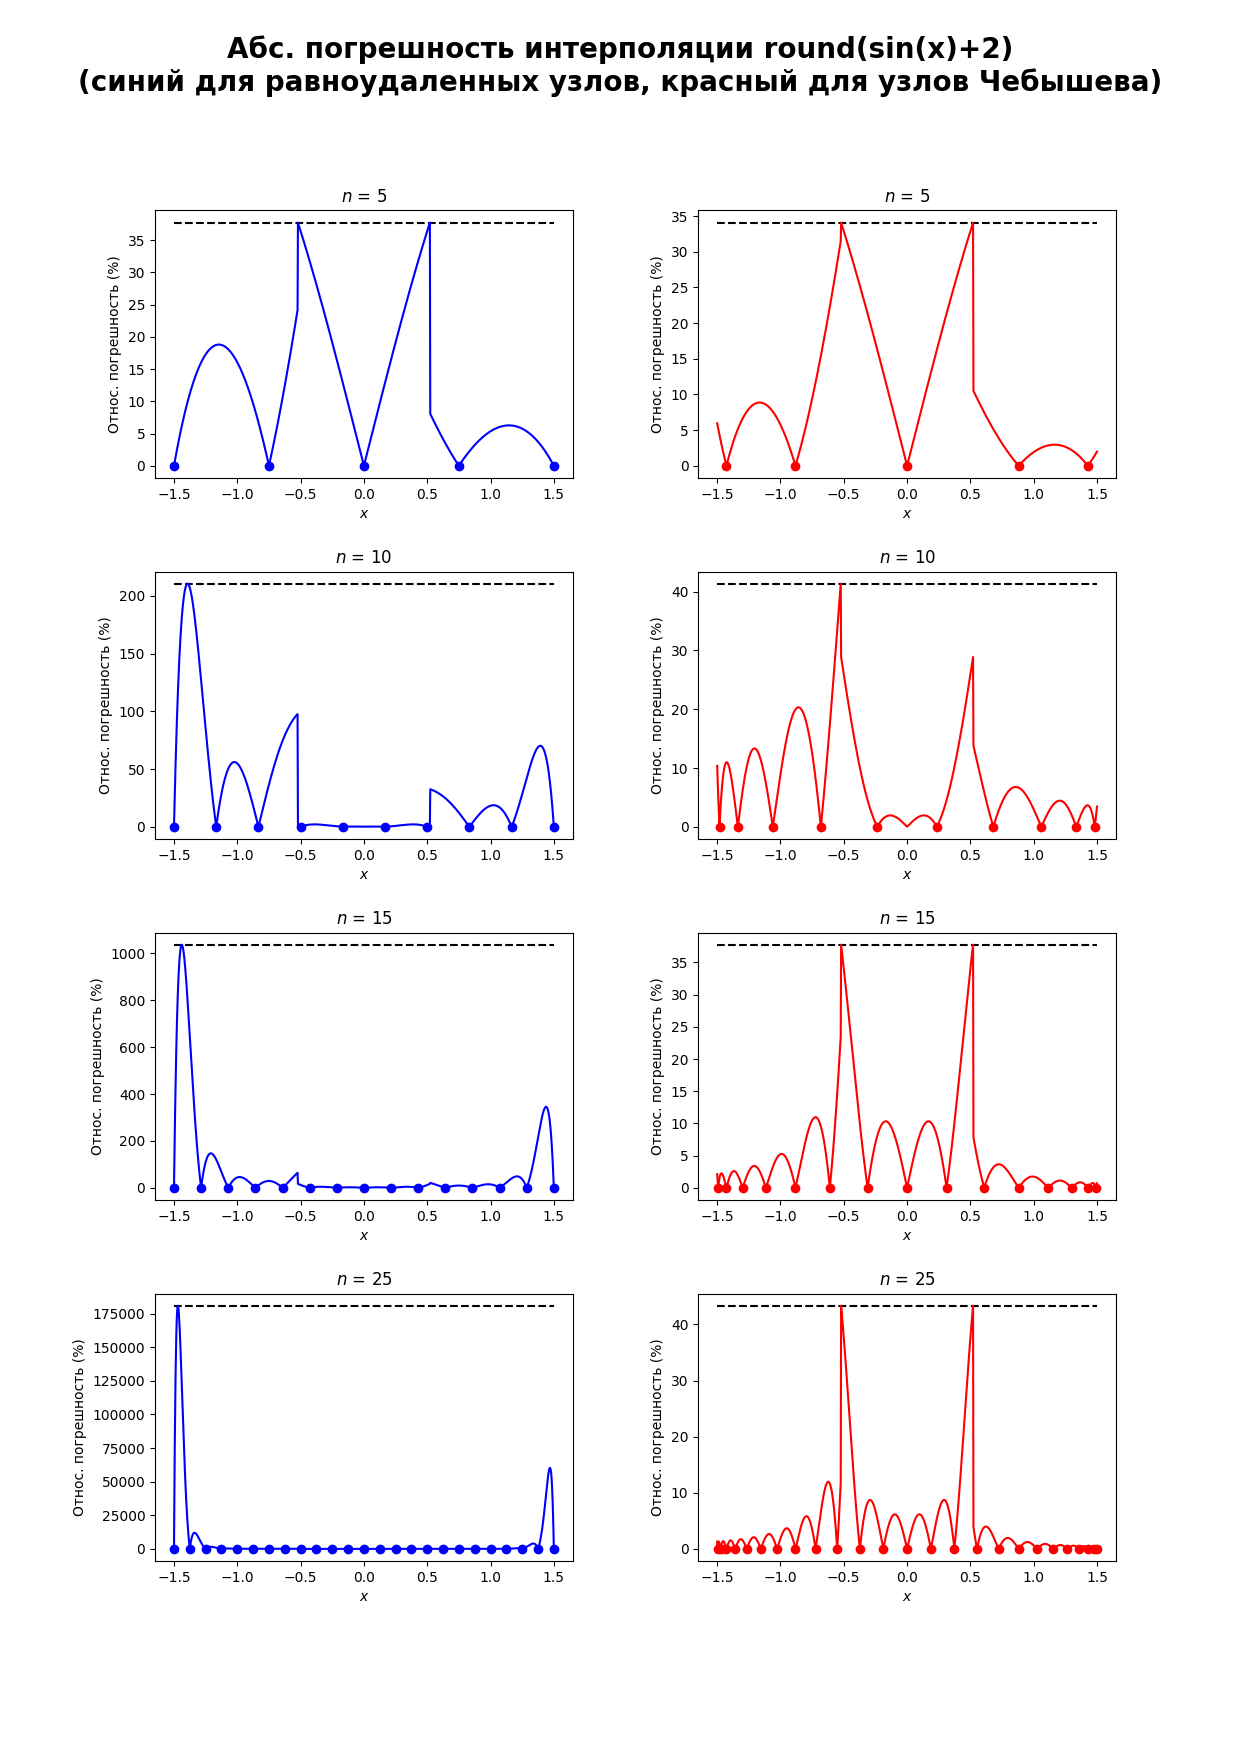
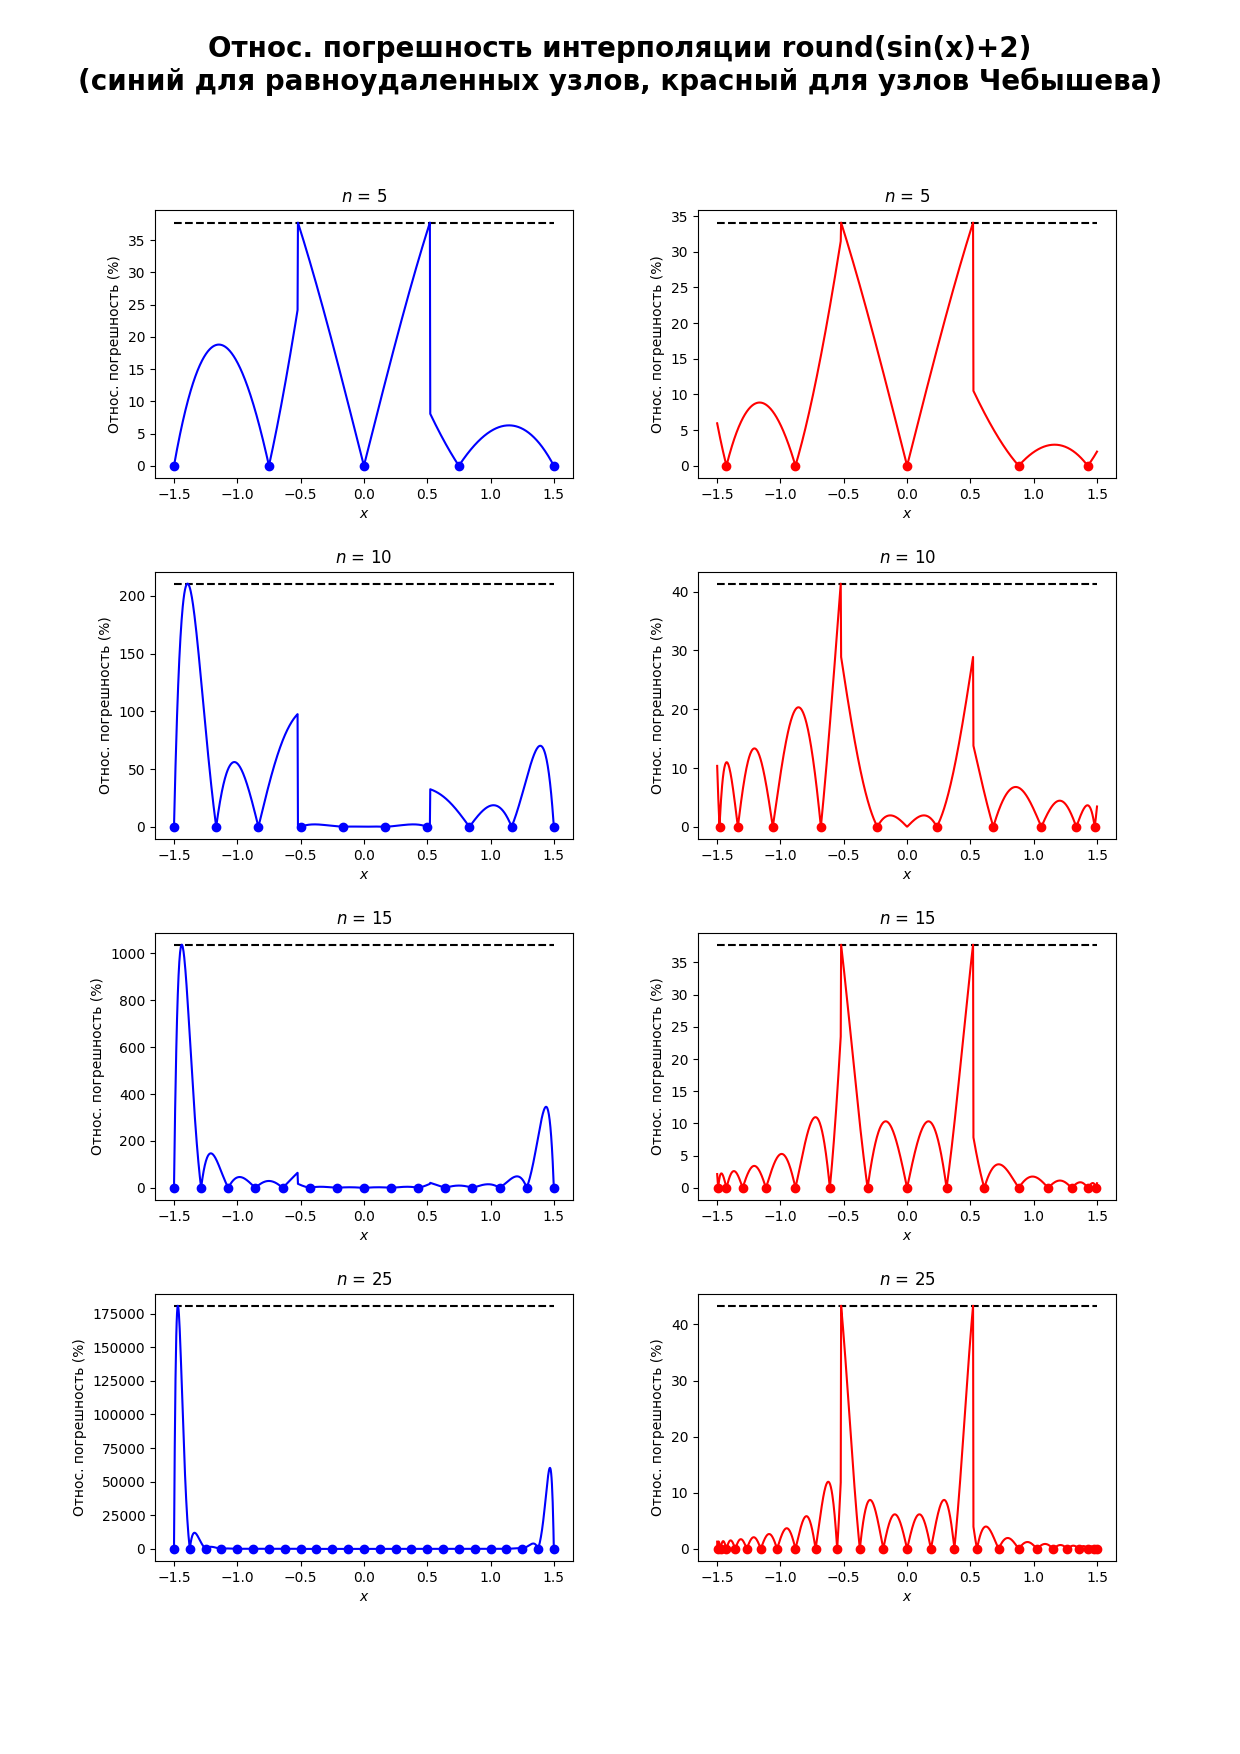
Error in title fixed

Changed region(s): [[0.1532, 0.0, 0.8274, 0.0616], [0.8887, 0.0308, 0.9194, 0.0616]]

diff --git a/Bonus/2/main.py b/Bonus/2/main.py
@@ -178,7 +178,7 @@ def make_err_graphs(
     non_tex_fun_name = fun_name.translate(str.maketrans("", "", "$\\"))
 
     fig.suptitle(
-        "Абс. погрешность интерполяции "
+        "Относ. погрешность интерполяции "
         + non_tex_fun_name
         + "\n"
         + "(синий для равноудаленных узлов, красный для узлов Чебышева)",
